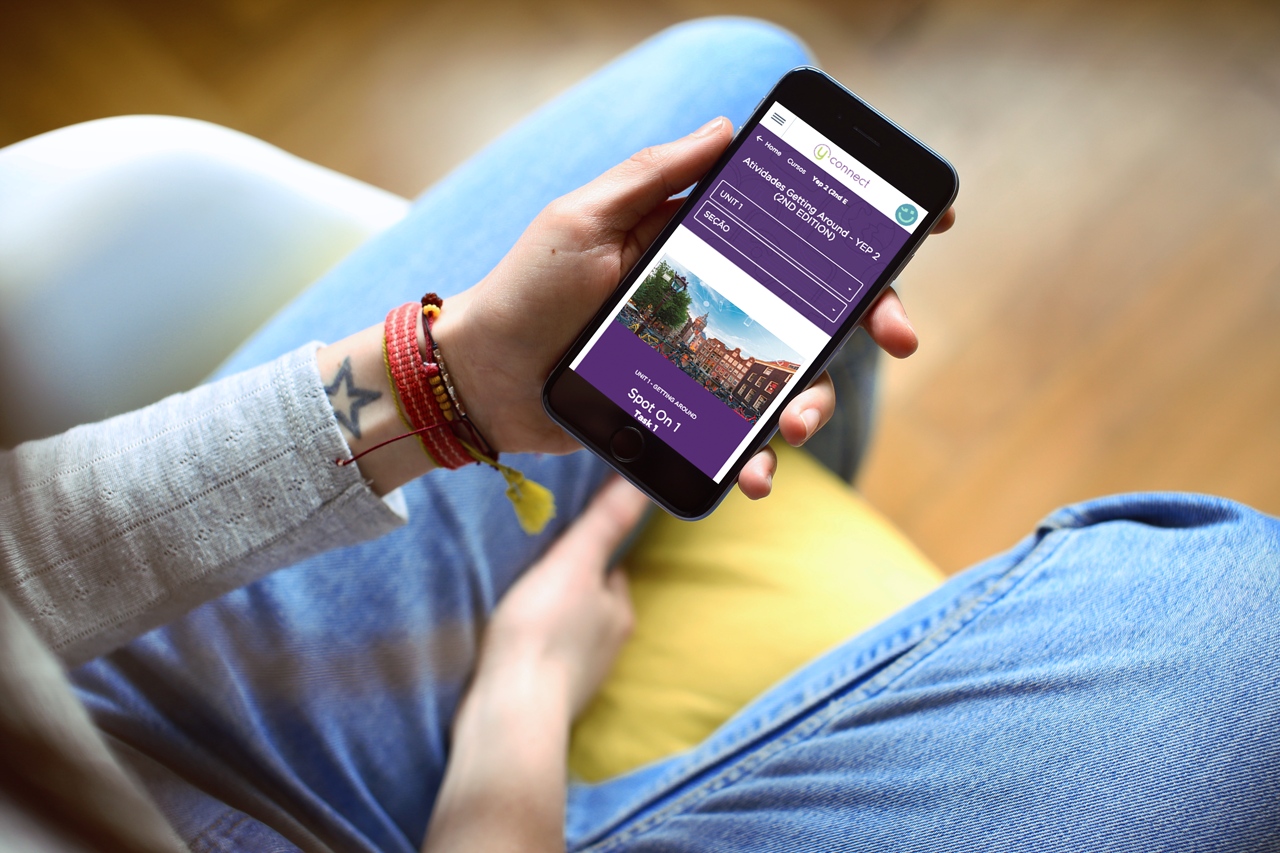
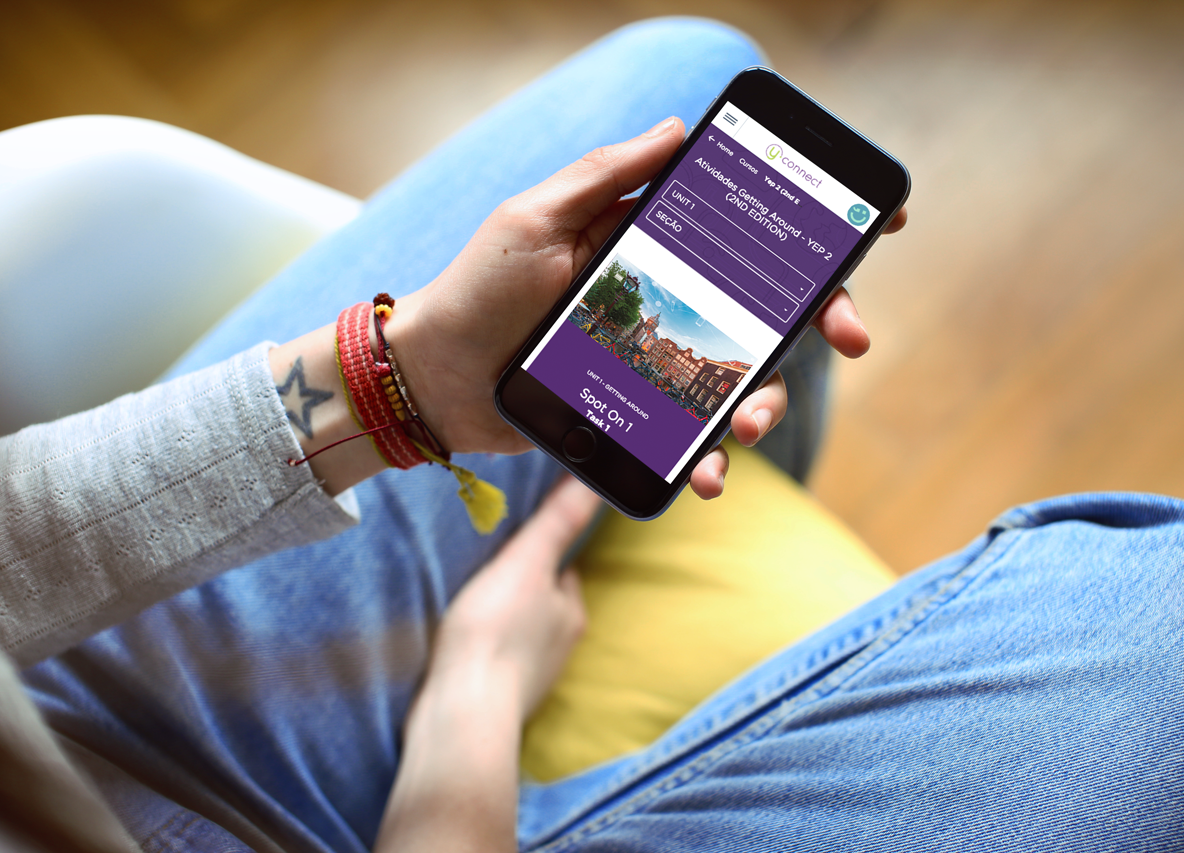
Ajuste de tamanho de imagem
imagem estava do tamanho diferente do padrão

diff --git a/index.html b/index.html
@@ -434,20 +434,6 @@
                     </div>
                 </div>
                 <div class="col-md-4 col-sm-6 portfolio-item">
-                    <a href="#portfolioModal4" class="portfolio-link" data-toggle="modal">
-                        <div class="portfolio-hover">
-                            <div class="portfolio-hover-content">
-                                <i class="fa fa-plus fa-3x"></i>
-                            </div>
-                        </div>
-                        <img src="img/portfolio/golden.png" class="img-responsive" alt="">
-                    </a>
-                    <div class="portfolio-caption">
-                        <h4>Amigos do COC</h4>
-                        <p class="text-muted">Game Design - Infantil</p>
-                    </div>
-                </div>
-                <div class="col-md-4 col-sm-6 portfolio-item">
                     <a href="#portfolioModal5" class="portfolio-link" data-toggle="modal">
                         <div class="portfolio-hover">
                             <div class="portfolio-hover-content">
@@ -696,35 +682,6 @@
                                 <p style="padding-right:56%; color:#a0a0a0"><i>Portal COC infantil - DEPOIS</i><p>
                                 <img class="img-responsive img-centered" src="img/portfolio/novo_coci.png" alt="">
                                 <img class="img-responsive img-centered" src="img/portfolio/golden-preview.png" alt="">
-                                <button type="button" class="btn btn-primary" data-dismiss="modal"><i class="fa fa-times"></i>SAIR</button>
-                            </div>
-                        </div>
-                    </div>
-                </div>
-            </div>
-        </div>
-    </div>
-
-    <!-- Portfolio Modal 4 -->
-    <div class="portfolio-modal modal fade" id="portfolioModal4" tabindex="-1" role="dialog" aria-hidden="true">
-        <div class="modal-dialog">
-            <div class="modal-content">
-                <div class="close-modal" data-dismiss="modal">
-                    <div class="lr">
-                        <div class="rl">
-                        </div>
-                    </div>
-                </div>
-                <div class="container">
-                    <div class="row">
-                        <div class="col-lg-8 col-lg-offset-2">
-                            <div class="modal-body">
-                                <!-- Project Details Go Here -->
-                                <h2>Project Name</h2>
-                                <p class="item-intro text-muted">Lorem ipsum dolor sit amet consectetur.</p>
-                                <img class="img-responsive img-centered" src="img/portfolio/golden-preview.png" alt="">
-                                <p>Start Bootstrap's Agency theme is based on Golden, a free PSD website template built by <a href="https://www.behance.net/MathavanJaya">Mathavan Jaya</a>. Golden is a modern and clean one page web template that was made exclusively for Best PSD Freebies. This template has a great portfolio, timeline, and meet your team sections that can be easily modified to fit your needs.</p>
-                                <p>You can download the PSD template in this portfolio sample item at <a href="http://freebiesxpress.com/gallery/golden-free-one-page-web-template/">FreebiesXpress.com</a>.</p>
                                 <button type="button" class="btn btn-primary" data-dismiss="modal"><i class="fa fa-times"></i>SAIR</button>
                             </div>
                         </div>
